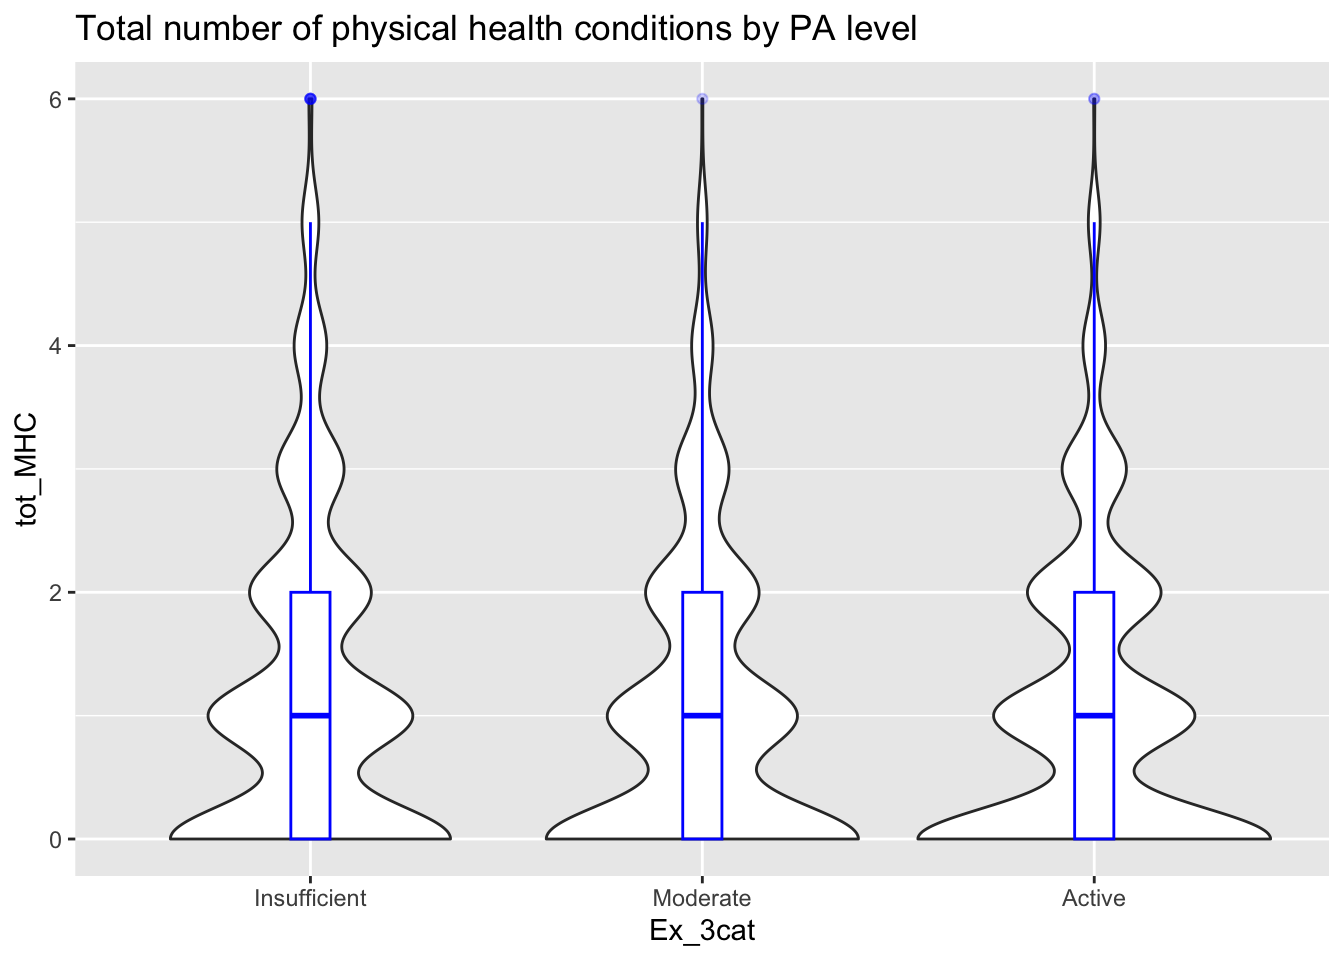
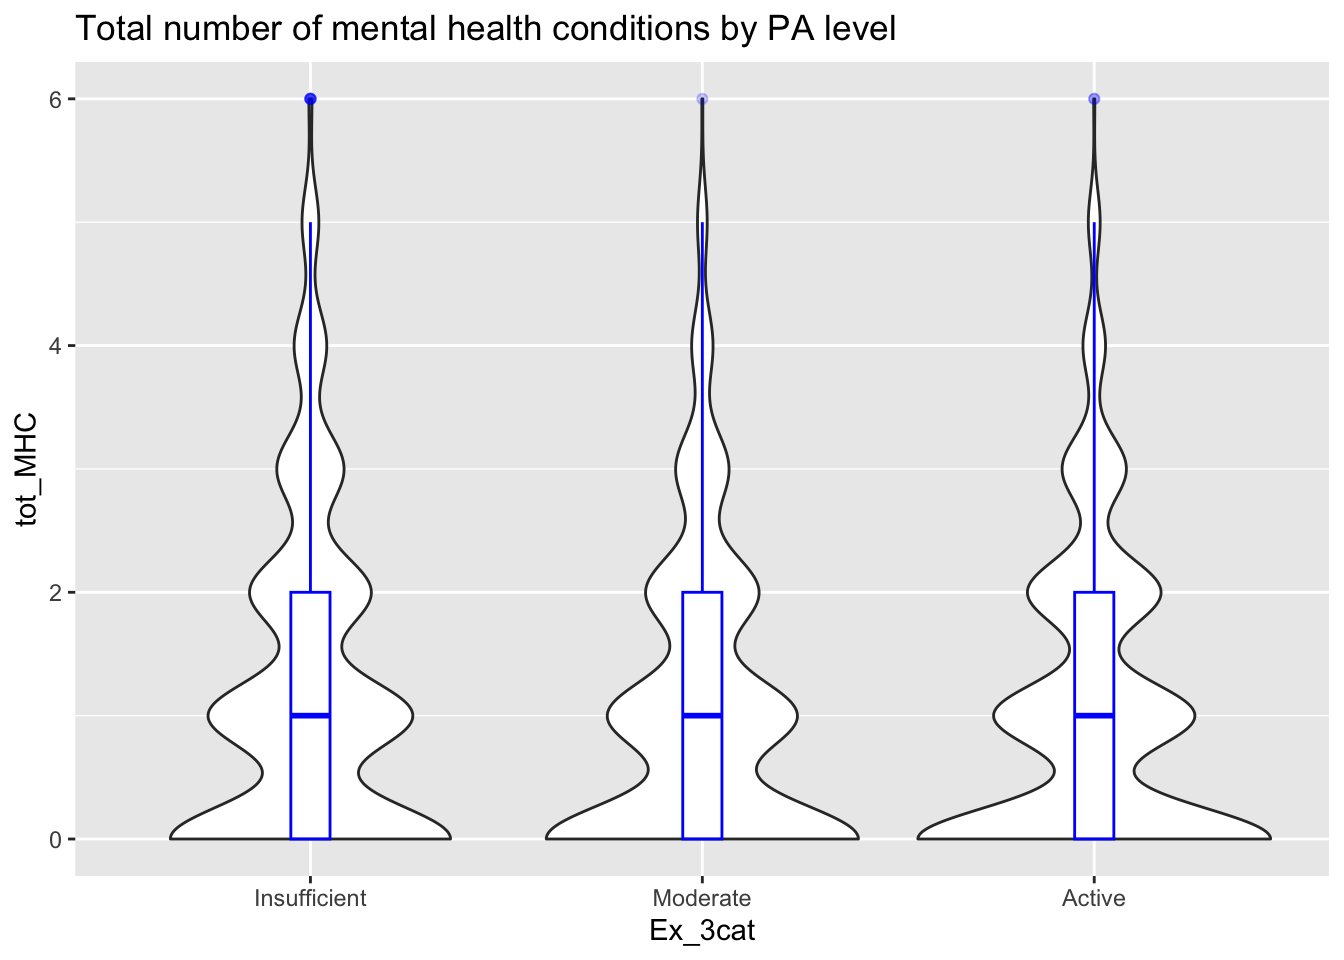
Final final?

Changed region(s): [[0.25, 0.0, 0.6875, 0.0625]]

diff --git a/docs/Thesis_FP.html b/docs/Thesis_FP.html
@@ -1731,23 +1731,37 @@ without <code>ggplot()</code> getting angery. So I used the forbidden
 the univariate and multivariate plots. The final plots are below with
 explinations of their results.</p>
 </div>
-<div id="explination-of-results" class="section level1">
-<h1>Explination of Results</h1>
+<div id="results" class="section level1">
+<h1>Results</h1>
+<div
+id="comparing-the-likelihood-of-reporting-physical-activity-level-based-upon-also-reporting-a-health-condition."
+class="section level2 tabset">
+<h2 class="tabset">Comparing the likelihood of reporting physical
+activity level based upon also reporting a health condition.</h2>
+<p>The following forrest plots depict univariate (without covariates)
+and multivariate (ater controling for covariates) relations between
+health conditions and activity level. For all figures the left side is
+univariate analysis and the right is multivariate. Note how multivaraite
+plots have less significant health conditions compared to univariate
+plots.</p>
+<div id="insufficient-vs-sufficiently-activity" class="section level3">
+<h3>Insufficient vs Sufficiently Activity</h3>
 <p><img src="images/Ins_Act_FP.png" /></p>
-<pre class="r"><code>knitr::include_graphics(&quot;images/Ins_Act_FP.png&quot;)</code></pre>
-<p><img src="images/Ins_Act_FP.png" width="796" style="display: block; margin: auto;" /></p>
-<p><em>Univariate.</em> Those with several health conditions are less
-likely to report sufficiently active physical activity compared to
-insfucciently physical activity.</p>
-<p><em>Multivariate.</em> For less health conditions are there
-differences between physical activity level. Compared to veterans who
-are insufficiently active, those who are sufficiently active are less
-likely to report any disability, asthma, chronic pain, diabetes, and
-hypertension. No other differences were observed between the odds of
-reporting other conditions between insufficient and moderate
-activity.</p>
+<p><em><strong>2A:</strong> Univariate.</em> Those with several health
+conditions are less likely to report sufficiently active physical
+activity compared to insfucciently physical activity.</p>
+<p><em><strong>2B:</strong> Multivariate.</em> For less health
+conditions are there differences between physical activity level.
+Compared to veterans who are insufficiently active, those who are
+sufficiently active are less likely to report any disability, asthma,
+chronic pain, diabetes, and hypertension. No other differences were
+observed between the odds of reporting other conditions between
+insufficient and moderate activity.</p>
 <p>Compared to veterans who are insufficiently active, those who are
 sufficiently active are more likely to report PTSD.</p>
+</div>
+<div id="insufficient-vs-moderate-activity" class="section level3">
+<h3>Insufficient vs Moderate Activity</h3>
 <div class="figure">
 <img src="images/Ins_Mod_FP.png" alt="" />
 <p class="caption">Note. Blue bars signify values that are significant
@@ -1762,18 +1776,24 @@ multivariate analysis include age, some college education, an income ≥
 physical composite score for physical health conditions and mental
 health conditions, respectively.</p>
 </div>
-<p><em>Univariate.</em> Similarily to sufficiently active, veterans tend
-who have health conditions are less likely to report moderate physical
-activity compared to those who are insuficiently active.</p>
-<p><em>Multivariate.</em> Compared to veterans who are insufficiently
-active, those who are moderately active are less likely to report any
-disability, asthma, chronic pain, diabetes, high cholesterol, and
-stroke. No other differences were observed between the odds of reporting
-other conditions between insufficient and moderate activity.</p>
+<p><em><strong>2C:</strong> Univariate.</em> Compared to insufficiently
+active veterans, those who are moderately active are less likely to
+report certain health condtions. However, there is not as many
+conditions that this is statistically significant for compared to
+sufficiently active indiviudals.</p>
+<p><em><strong>2D:</strong> Multivariate.</em> Compared to veterans who
+are insufficiently active, those who are moderately active are less
+likely to report any disability, asthma, chronic pain, diabetes, high
+cholesterol, and stroke. No other differences were observed between the
+odds of reporting other conditions between insufficient and moderate
+activity.</p>
 <p>Compared to veterans who are insufficiently active, those who are
 moderately active are less likely to report nicotine dependence. No
 other differences were observed between the odds of reporting other
 conditions between insufficient and moderate activity.</p>
+</div>
+<div id="sufficient-vs-moderate-activity" class="section level3">
+<h3>Sufficient vs Moderate Activity</h3>
 <div class="figure">
 <img src="images/Mod_Act_FP.png" alt="" />
 <p class="caption">Note. Blue bars signify values that are significant
@@ -1788,12 +1808,14 @@ multivariate analysis include age, some college education, an income ≥
 physical composite score for physical health conditions and mental
 health conditions, respectively.</p>
 </div>
-<p><em>Univariate.</em> For a few health coditions, veterans with those
-conditions were more likely to report moderate activity compared to
-sufficiently active.</p>
-<p><em>Multivariate.</em> No other differences were observed between the
-odds of reporting physical health conditions between insufficient and
-moderate activity.</p>
+<p><em><strong>2E:</strong> Univariate.</em> For a few health coditions,
+veterans with those conditions were more likely to report moderate
+activity compared to sufficiently active.</p>
+<p><em><strong>2F:</strong> Multivariate.</em> No other differences were
+observed between the odds of reporting physical health conditions
+between insufficient and moderate activity.</p>
+</div>
+</div>
 </div>
 
 

diff --git a/docs/Preliminary_Stats.html b/docs/Preliminary_Stats.html
@@ -384,10 +384,12 @@ library(manipulate)
 library(psych)
 library(tableone)
 library(kableExtra)</code></pre>
-<div id="prep-data-for-analyses" class="section level1 tabset">
-<h1 class="tabset">Prep Data For Analyses</h1>
-<div id="import-in-data" class="section level3">
-<h3>Import in data</h3>
+<div id="prep-data-for-analyses" class="section level1">
+<h1>Prep Data For Analyses</h1>
+<div id="section" class="section level2 tabset">
+<h2 class="tabset"></h2>
+<div id="read-and-select-data" class="section level3">
+<h3>Read and Select data</h3>
 <pre class="r"><code>### Import dataset 
 NHRVS_2019 &lt;- read_sav(&quot;~/Desktop/Adams_lab/SPSS_stuff/NHRVS_2019_2020_FINAL_weighted.sav&quot;)
 
@@ -894,8 +896,11 @@ a CSV of that for future reference.</p>
 haven::write_sav(thesis_NHRVS,&quot;~/Desktop/Coding/data/thesis_SPSS.sav&quot;)</code></pre>
 </div>
 </div>
-<div id="descriptives-of-variables" class="section level1 tabset">
-<h1 class="tabset">Descriptives of Variables</h1>
+</div>
+<div id="descriptives-of-variables" class="section level1">
+<h1>Descriptives of Variables</h1>
+<div id="section-1" class="section level2 tabset">
+<h2 class="tabset"></h2>
 <div id="discriptive-table" class="section level3">
 <h3>Discriptive Table</h3>
 <p>Here are some discriptive statistics and basic plots to see an
@@ -1100,21 +1105,23 @@ ggplot(thesis_NHRVS, aes(x = Ex_3cat, y = MET_min_W)) +
 ggplot(thesis_NHRVS, aes(x = Ex_3cat, y = tot_MHC)) +
   geom_violin()+
   geom_boxplot(width=0.1, color=&quot;blue&quot;, alpha=0.2) +
-  ggtitle(&quot;Total number of physical health conditions by PA level&quot;)</code></pre>
+  ggtitle(&quot;Total number of mental health conditions by PA level&quot;)</code></pre>
 <p><img src="Preliminary_Stats_files/figure-html/unnamed-chunk-5-2.png" width="672" /></p>
 <pre class="r"><code># Total physical health conditions
 ggplot(thesis_NHRVS, aes(x = Ex_3cat, y = tot_phc)) +
   geom_violin()+
   geom_boxplot(width=0.1, color=&quot;blue&quot;, alpha=0.2)+
-  ggtitle(&quot;Total number of mental health conditions by PA level&quot;)</code></pre>
+  ggtitle(&quot;Total number of physical health conditions by PA level&quot;)</code></pre>
 <p><img src="Preliminary_Stats_files/figure-html/unnamed-chunk-5-3.png" width="672" />
 These descriptive are helpful for us to see how the data looks. Also it
 can be helpful to see what may be or not be wrong within the data</p>
 </div>
 </div>
-<div id="stacked-barcharts-of-health-conditions"
-class="section level1 tabset">
-<h1 class="tabset">Stacked Barcharts of health conditions</h1>
+</div>
+<div id="stacked-barcharts-of-health-conditions" class="section level1">
+<h1>Stacked Barcharts of health conditions</h1>
+<div id="section-2" class="section level2 tabset">
+<h2 class="tabset"></h2>
 <div id="cross-tabs" class="section level3">
 <h3>Cross tabs</h3>
 <p>I wanted to create a visualiation that depicted the number of
@@ -1594,8 +1601,11 @@ condition figure (i.e., having a health condition).</p>
 </div>
 </div>
 </div>
-<div id="exploratory-data-analysis-eda" class="section level1 tabset">
-<h1 class="tabset">Exploratory Data Analysis (EDA)</h1>
+</div>
+<div id="exploratory-data-analysis-eda" class="section level1">
+<h1>Exploratory Data Analysis (EDA)</h1>
+<div id="section-3" class="section level2 tabset">
+<h2 class="tabset"></h2>
 <div id="associations-with-exercsie" class="section level3">
 <h3>Associations With Exercsie</h3>
 <p>The first step in our analysis is to figure out what sociodemographic
@@ -2464,6 +2474,7 @@ MCS (mean (SD))
 </tbody>
 </table>
 <pre class="r"><code>write_csv(Demo_tab, &quot;~/Desktop/Coding/data/Demo_tab_basic.csv&quot;)</code></pre>
+</div>
 </div>
 </div>
 <div id="tests-of-difference" class="section level1">

diff --git a/docs/index.html b/docs/index.html
@@ -289,7 +289,9 @@ National Health and Resilience in Veterans Study.</h5>
 <p>The following markdowns display the code used for my masters thesis.
 The code is broke up into 3 sections:</p>
 <ol style="list-style-type: decimal">
-<li>Preliminary Stats
+<li><a
+href="https://troy-hubert.github.io/Thesis/Preliminary_Stats.html">Preliminary
+Stats</a>
 <ul>
 <li>Read in data, clean data, and prepare data for analysis</li>
 <li>Create visualiations depicting number of health conditions in each
@@ -297,7 +299,9 @@ level of physical activity</li>
 <li>Create data frame of descriptive statistics (chi squaures, t tests,
 anovas) to examine differences between sociodemographic variables</li>
 </ul></li>
-<li>Multinomial Function
+<li><a
+href="https://troy-hubert.github.io/Thesis/Multinomial_Function.html">Multinomial
+Function</a>
 <ul>
 <li>Create function to calculate multinomial regression and extracts
 values for coefficients, Odds ratios and 95% CIs, p values)</li>
@@ -309,7 +313,9 @@ blocks) for all 26 health conditions for the 3 comparisons.</li>
 <li>Create a table that displays Odds ratios of all blocks of the
 stepwise multivariate multinomial logistic regression</li>
 </ul></li>
-<li>Univaraite and Multivariate Forrest Plots
+<li><a
+href="https://troy-hubert.github.io/Thesis/Thesis_FP.html">Univaraite
+and Multivariate Forrest Plots</a>
 <ul>
 <li>Create forrest plots</li>
 <li>Create left side of the plot with variable names and ORs/ 95%
